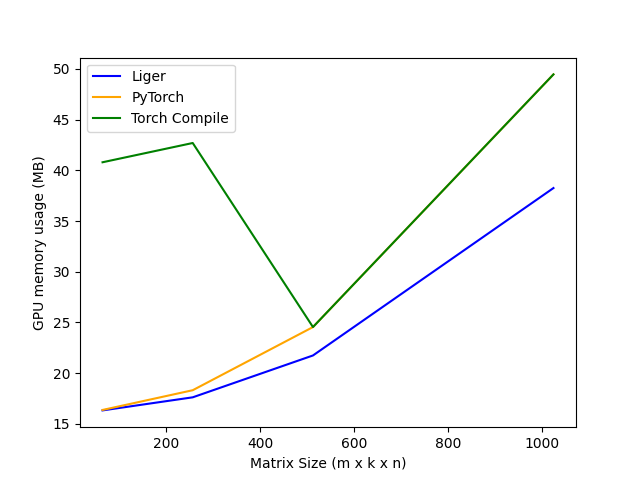
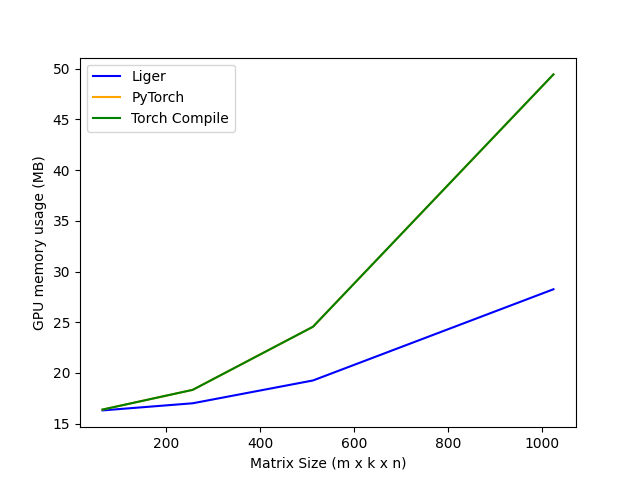
update to benchmark

diff --git a/benchmark/benchmark_gemm_split_k_fp8_e4m3.py b/benchmark/benchmark_gemm_split_k_fp8_e4m3.py
@@ -1,8 +1,11 @@
 import os
+
 import torch
 import triton
 from utils import _print_speed_banner, _test_memory, get_current_file_directory
+
 from liger_kernel.ops.gemm_split_k_fp8_e4m3 import gemm_split_k
+
 
 @triton.testing.perf_report(
     [
@@ -61,7 +64,7 @@ def bench_speed_gemm_split_k_fp8(m, k, n, provider, mode, dtype, device="cuda"):
         fwd_fn = fwd_liger
     elif provider == "torch":
         fwd_fn = fwd_torch
-    else: 
+    else:
         fwd_fn = fwd_torch_compiled
 
     quantiles = [0.5, 0.2, 0.8]
@@ -69,16 +72,18 @@ def bench_speed_gemm_split_k_fp8(m, k, n, provider, mode, dtype, device="cuda"):
     if mode == "forward":
         ms, min_ms, max_ms = triton.testing.do_bench(fwd_fn, quantiles=quantiles)
     elif mode == "full":
+
         def full():
             y = fwd_fn()
             if provider != "liger":
                 y.backward(torch.ones_like(y))
             else:
-                dc = torch.ones_like(y).float()
+                pass
 
         ms, min_ms, max_ms = triton.testing.do_bench(full, quantiles=quantiles)
 
     return ms, min_ms, max_ms
+
 
 def benchmark_speed_gemm_split_k_fp8_wrapper():
     _print_speed_banner()
@@ -89,6 +94,7 @@ def benchmark_speed_gemm_split_k_fp8_wrapper():
     os.makedirs(output_dir, exist_ok=True)
 
     bench_speed_gemm_split_k_fp8.run(save_path=output_dir, print_data=True)
+
 
 @triton.testing.perf_report(
     [
@@ -119,10 +125,7 @@ def bench_memory_gemm_split_k_fp8(m, k, n, provider, dtype, device="cuda"):
     b_float = b_fp8.float().requires_grad_()
 
     def full_liger():
-        y = gemm_split_k(a_fp8, b_fp8)
-        dc = torch.ones_like(y).float()
-        da = gemm_split_k(dc, b_fp8.t())
-        db = gemm_split_k(a_fp8.t(), dc)
+        _ = gemm_split_k(a_fp8, b_fp8)
 
     def full_torch():
         y = torch.matmul(a_float, b_float)
@@ -134,11 +137,12 @@ def bench_memory_gemm_split_k_fp8(m, k, n, provider, dtype, device="cuda"):
         full_fn = full_liger
     elif provider == "torch":
         full_fn = full_torch
-    else: 
+    else:
         full_fn = full_torch_compiled
 
     mem = _test_memory(full_fn)
     return mem / 2**20
+
 
 def benchmark_memory_gemm_split_k_fp8_wrapper():
     _print_speed_banner()
@@ -149,6 +153,7 @@ def benchmark_memory_gemm_split_k_fp8_wrapper():
     os.makedirs(output_dir, exist_ok=True)
 
     bench_memory_gemm_split_k_fp8.run(save_path=output_dir, print_data=True)
+
 
 if __name__ == "__main__":
     benchmark_speed_gemm_split_k_fp8_wrapper()

diff --git a/test/transformers/test_gemm_split_k_fp8_e4m3.py b/test/transformers/test_gemm_split_k_fp8_e4m3.py
@@ -1,7 +1,10 @@
+from test.utils import assert_verbose_allclose
+
 import pytest
 import torch
+
 from liger_kernel.ops.gemm_split_k_fp8_e4m3 import gemm_split_k
-from test.utils import assert_verbose_allclose
+
 
 @pytest.mark.parametrize(
     "m, k, n",
@@ -37,8 +40,8 @@ def test_gemm_split_k(m, k, n, dtype, atol, rtol):
     c_autograd.backward(torch.ones_like(c_autograd))
 
     dc = torch.ones_like(c_liger).float()
-    da_liger = gemm_split_k(dc, b_fp8.t()) # contiguous is already ensured 
-    db_liger = gemm_split_k(a_fp8.t(), dc) # contiguous is already ensured 
+    da_liger = gemm_split_k(dc, b_fp8.t())  # contiguous is already ensured
+    db_liger = gemm_split_k(a_fp8.t(), dc)  # contiguous is already ensured
 
     assert_verbose_allclose(da_liger.float(), a_autograd.grad, atol=atol, rtol=rtol)
     assert_verbose_allclose(db_liger.float(), b_autograd.grad, atol=atol, rtol=rtol)

diff --git a/src/liger_kernel/ops/gemm_split_k_fp8_e4m3.py b/src/liger_kernel/ops/gemm_split_k_fp8_e4m3.py
@@ -22,8 +22,8 @@ else:
 @triton.jit
 def grouped_launch(
     pid,
-    m: tl.constexpr,  # rows 
-    n: tl.constexpr,  # cols 
+    m: tl.constexpr,  # rows
+    n: tl.constexpr,  # cols
     block_m: tl.constexpr,  # rows in a block
     block_n: tl.constexpr,  # cols in a block
     group_m: tl.constexpr,  # blocks in group along row dimension
